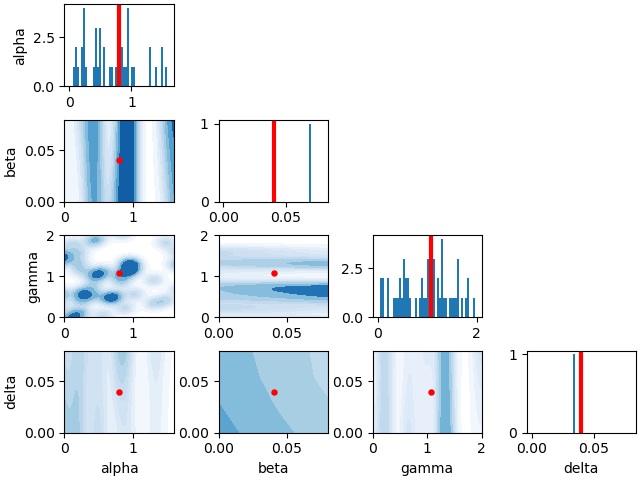
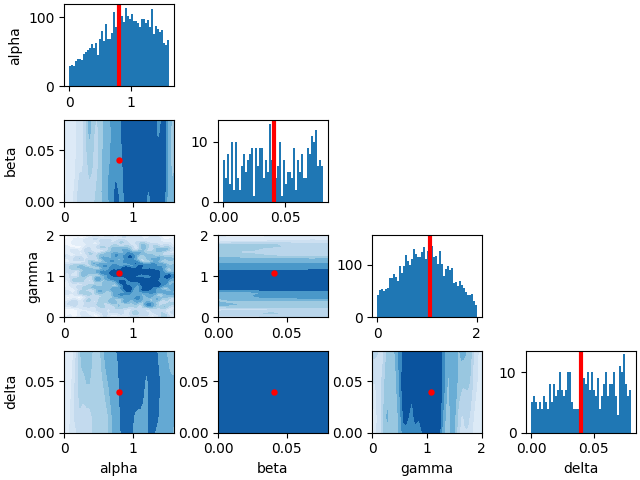
generic commit

diff --git a/scripts/transport/c_transport.py b/scripts/transport/c_transport.py
@@ -543,7 +543,7 @@ def vl_exp(N = 10000, n_iter = 10000, Yd = 18, normal = True, exp_name = 'vl_exp
     slice_sample = compositional_gen(trained_models, ref_sample, ref_slice_sample, idx_dict)
 
     params_keys = ['alpha','beta','gamma','delta']
-    ranges = {'alpha': [.5,1.4], 'beta': [.02,.07], 'gamma':[.7,1.5], 'delta':[0,.07]}
+    ranges = {'alpha': [.5,1.1], 'beta': [-.26,.34], 'gamma':[.77,1.37], 'delta':[-.26,.34]}
 
 
     for i, key_i in enumerate(params_keys):
